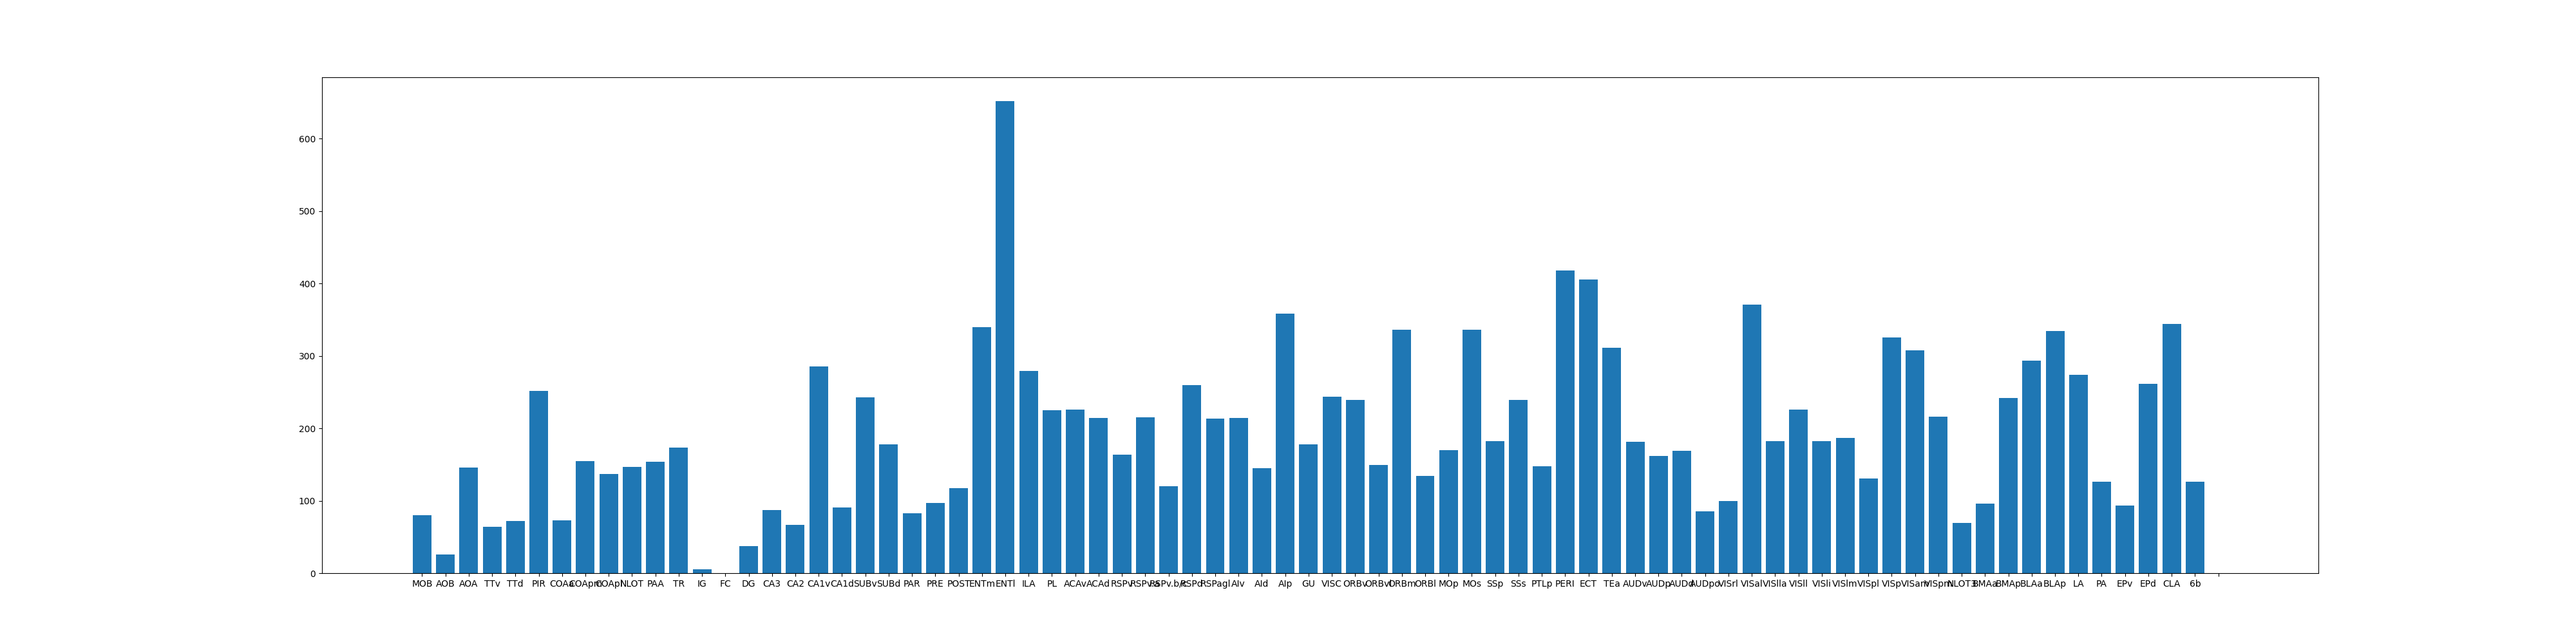
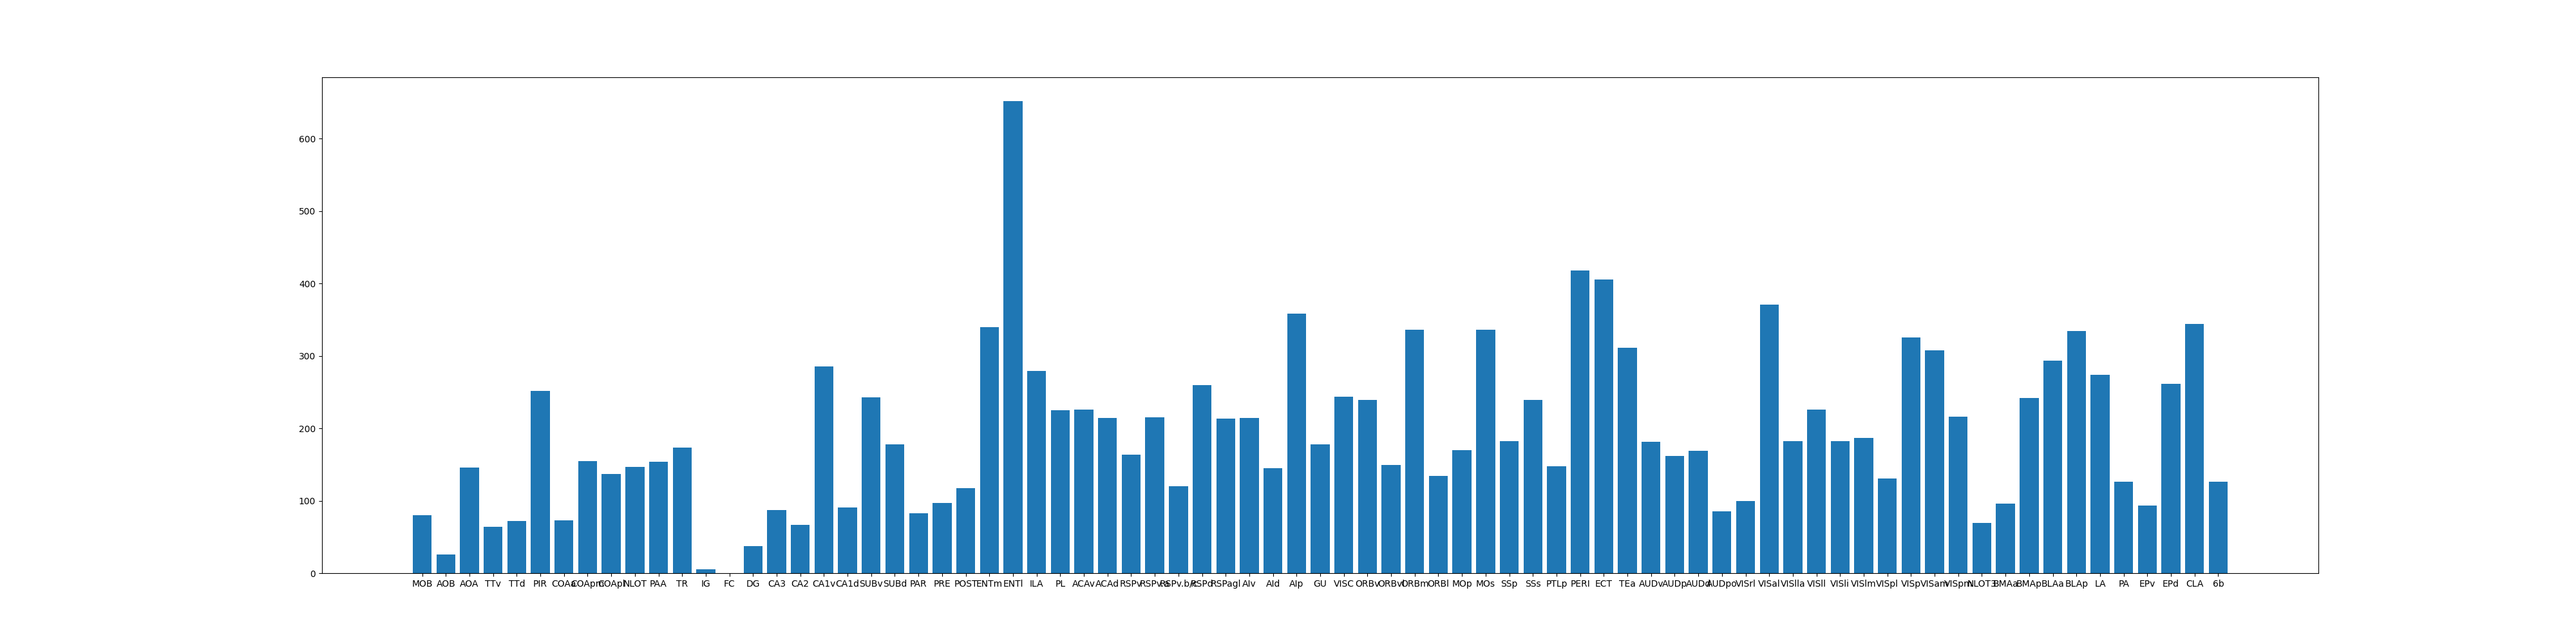
Changed strength to a 77 node graph

Changed region(s): [[0.1875, 0.155, 0.875, 0.93]]

diff --git a/collectData.py b/collectData.py
@@ -48,44 +48,53 @@ for line in data:
 #Dictionary objects holding strength values ie. { 'MOD' : 25, ... }
 strengthIN = {}
 strengthOUT = {}
+# List of 77 nodes that are included
+nodesI = [ "ECT","VISp", "VISal", "TEa", "VISpm", "SSs", "VISam", "VISrl", "SSp", "AUDv", "6b", "MOp", "VISlm","AUDp","PTLp","AUDpo","VISpl","AUDd","VISli","VISll","VISlla","ENTl","ORBm","PERI","PIR","LA","AIp","PL","BLAp","ENTm","EPd","ILA","BLAa","COApm","AIv","CA1v","VISC","AId","AOA","TR","GU","EPv","PAA","NLOT","BMAp","SUBv","BMAa","CA3","COApl","COAa","NLOT3","CA1d","TTd","SUBd","PA","MOB","TTv","DG","CA2","IG","AOB","FC","MOs","RSPd","CLA","ACAv","ORBv","RSPv.a","ACAd","ORBvl","RSPv.b/c","PAR","POST","RSPagl","PRE","ORBl","RSPv","ECT","VISp","VISal","TEa","VISpm","SSs","VISam","VISrl","SSp","AUDv","6b","MOp","VISlm","AUDp","PTLp","AUDpo","VISpl","AUDd","VISli","VISll","VISlla","ENTl","ORBm","PERI","PIR","LA","AIp","PL","BLAp","ENTm","EPd","ILA","BLAa","COApm","AIv","CA1v","VISC","AId","AOA","TR","GU","EPv","PAA","NLOT","BMAp","SUBv","BMAa","CA3","COApl","COAa","NLOT3","CA1d","TTd","SUBd","PA","MOB","TTv","DG","CA2","IG","AOB","FC","MOs","CLA","RSPd","ACAv","ORBv","ACAd","RSPv.a","RSPv.b/c","POST","RSPagl","PAR","PRE","ORBl","ORBvl","RSPv"]
+
 for n in graph.nodes(): #Iterate through nodes in the graph
 	node = n.split("_")[0]
-	hemisphere = n.split("_")[1]
-	sumIn = 0
-	sumOut = 0
-	#Iterate through all the in edges of a node
-	#Calculate the total in strength 
-	#Only consider edges in hemisphere ie (one->one, left->left, right->right)
-	for u,v,w in graph.in_edges(n, data=True):
-		hem  = v.split("_")[1]
-		if hem == "one" and hemisphere == "one":
-			sumIn += w.get("weight")
-		elif hem == "left" and hemisphere == "left":
-                        sumIn += w.get("weight")
-		elif hem == "right" and hemisphere == "right":
-                        sumIn += w.get("weight")
-	#Iterate through all the out edges of a node
-        #Calculate the total out strength
-        #Only consider edges in hemisphere (one->one, left->left, right->right)
-	for u,v,w in graph.out_edges(n, data=True):
-                hem  = v.split("_")[1]
-                if hem == "one" and hemisphere == "one":
-                        sumOut += w.get("weight")
-                elif hem == "left" and hemisphere == "left":
-                        sumOut += w.get("weight")
-                elif hem == "right" and hemisphere == "right":
-                        sumOut += w.get("weight")
-	#Making sure there are no repeat nodes in the dictonary
-	#MOD_one and MOD_left = MOD in the dictonary
-	if node in strengthIN:
-		strengthIN[node] = strengthIN.get(node) + sumIn
-	else:	
-		strengthIN[node] = sumIn
-	if node in strengthOUT:
-		strengthOUT[node] = strengthOUT.get(node) + sumOut
-	else:
-		strengthOUT[node] = sumOut
+	if node in nodesI:
+		hemisphere = n.split("_")[1]
+		sumIn = 0
+		sumOut = 0
+		#Iterate through all the in edges of a node
+		#Calculate the total in strength 
+		#Only consider edges in hemisphere ie (one->one, left->left, right->right)
+		for u,v,w in graph.in_edges(n, data=True):
+			name = v.split("_")[0]
+			if name in nodesI:
+				hem  = v.split("_")[1]
+				if hem == "one" and hemisphere == "one":
+					sumIn += w.get("weight")
+				elif hem == "left" and hemisphere == "left":
+                	        	sumIn += w.get("weight")
+				elif hem == "right" and hemisphere == "right":
+        	                	sumIn += w.get("weight")
+		#Iterate through all the out edges of a node
+        	#Calculate the total out strength
+        	#Only consider edges in hemisphere (one->one, left->left, right->right)
+		for u,v,w in graph.out_edges(n, data=True):
+			name = v.split("_")[0]
+			if name in nodesI:
+				hem  = v.split("_")[1]
+				if hem == "one" and hemisphere == "one":
+					sumOut += w.get("weight")
+				elif hem == "left" and hemisphere == "left":
+					sumOut += w.get("weight")
+				elif hem == "right" and hemisphere == "right":
+					sumOut += w.get("weight")
+		#Making sure there are no repeat nodes in the dictonary
+		#MOD_one and MOD_left = MOD in the dictonary
+		if node in strengthIN:
+			strengthIN[node] = strengthIN.get(node) + sumIn
+		else:	
+			strengthIN[node] = sumIn
+		if node in strengthOUT:
+			strengthOUT[node] = strengthOUT.get(node) + sumOut
+		else:
+			strengthOUT[node] = sumOut
 
+#print(len(strengthOUT.keys()))
 #Input Strength Graph
 plt.figure(figsize=(40,10))
 plt.bar(strengthIN.keys(), strengthIN.values())
